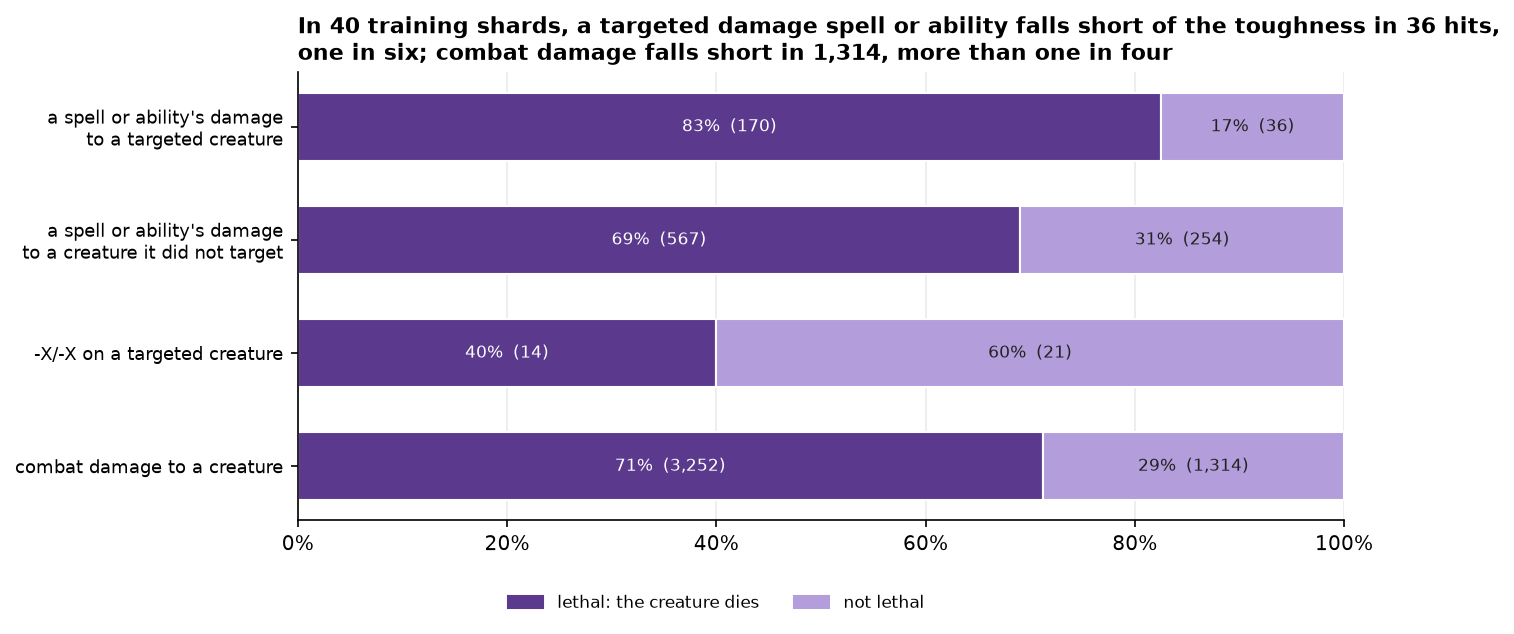
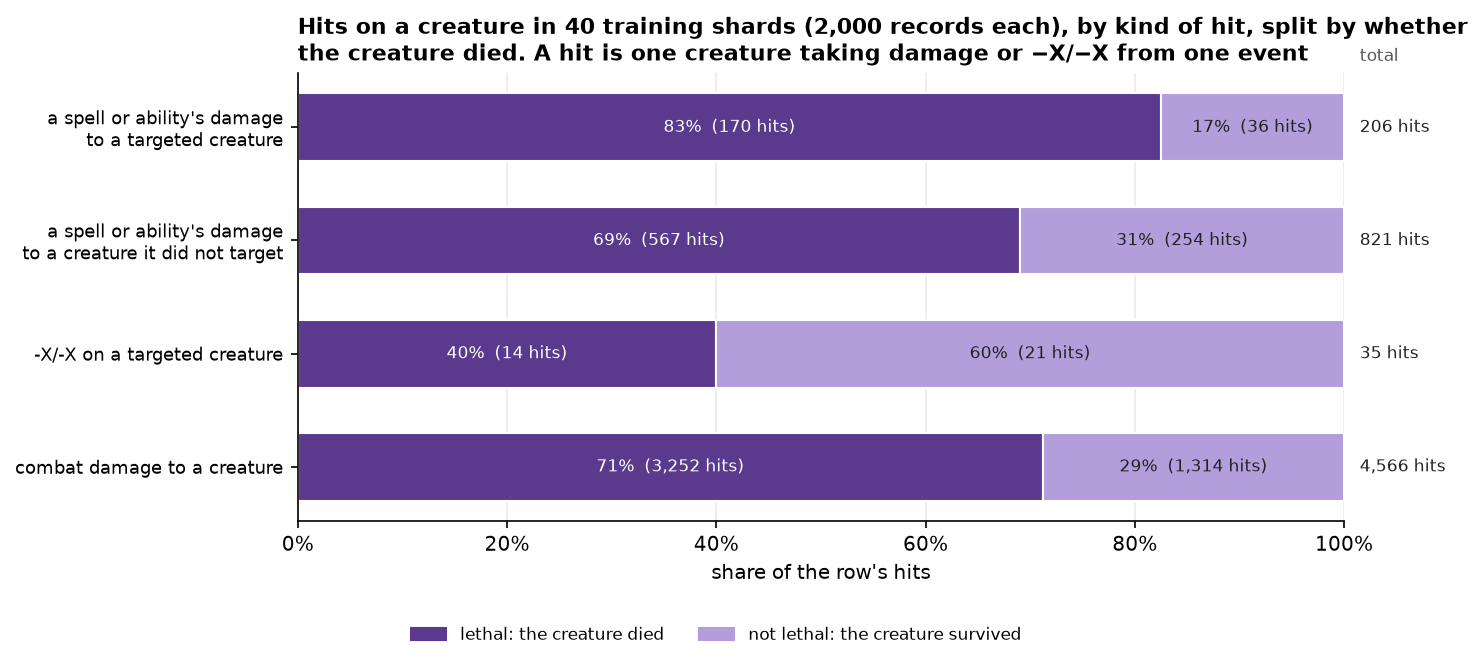
docs(effects-report): lethal-hits chart names what it counts; chart titles describe data
The skill gains the rule: a chart title states the population, measure and
split, never the conclusion, and every drawn number says what it counts.

Changed region(s): [[0.0, 0.03, 0.9933, 0.8691], [0.2794, 0.929, 0.6829, 0.989], [0.4345, 0.1798, 0.5277, 0.2098]]

diff --git a/scripts/effect_gen2_report/make_charts.py b/scripts/effect_gen2_report/make_charts.py
@@ -3037,21 +3037,25 @@ def lethal_hits() -> None:
         share = r.lethal / n
         ax.barh(y, share, height=0.6, color=lethal, edgecolor="white", lw=1)
         ax.barh(y, 1 - share, left=share, height=0.6, color=short_c, edgecolor="white", lw=1)
-        ax.text(share / 2, y, f"{share:.0%}  ({r.lethal:,})", ha="center", va="center",
+        ax.text(share / 2, y, f"{share:.0%}  ({r.lethal:,} hits)", ha="center", va="center",
                 fontsize=8.4, color="white")
-        ax.text(share + (1 - share) / 2, y, f"{1 - share:.0%}  ({r.not_lethal:,})",
+        ax.text(share + (1 - share) / 2, y, f"{1 - share:.0%}  ({r.not_lethal:,} hits)",
                 ha="center", va="center", fontsize=8.4, color=INK)
+        ax.text(1.015, y, f"{n:,} hits", ha="left", va="center", fontsize=8.4, color=INK)
+    ax.text(1.015, len(t) - 0.45, "total", ha="left", va="bottom", fontsize=8.4,
+            color=INK_SOFT)
     ax.set_yticks(range(len(t)), [labels.get(w, w) for w in t.what][::-1], fontsize=8.6)
     ax.set_xlim(0, 1)
     ax.xaxis.set_major_formatter(matplotlib.ticker.PercentFormatter(1.0))
+    ax.set_xlabel("share of the row's hits")
     ax.grid(axis="y", visible=False)
-    ax.legend(handles=[Patch(color=lethal, label="lethal: the creature dies"),
-                       Patch(color=short_c, label="not lethal")], loc="upper center",
-              bbox_to_anchor=(0.4, -0.13), ncol=2, fontsize=8.4)
+    ax.legend(handles=[Patch(color=lethal, label="lethal: the creature died"),
+                       Patch(color=short_c, label="not lethal: the creature survived")],
+              loc="upper center", bbox_to_anchor=(0.4, -0.2), ncol=2, fontsize=8.4)
     ax.set_axisbelow(True)
-    ax.set_title("In 40 training shards, a targeted damage spell or ability falls short of the "
-                 "toughness in 36 hits,\none in six; combat damage falls short in 1,314, more "
-                 "than one in four", fontsize=10.5)
+    ax.set_title("Hits on a creature in 40 training shards (2,000 records each), by kind of "
+                 "hit, split by whether\nthe creature died. A hit is one creature taking damage "
+                 "or −X/−X from one event", fontsize=10.5)
     save(fig, "lethal-hits")
 
 

diff --git a/.claude/skills/feature-workflow/SKILL.md b/.claude/skills/feature-workflow/SKILL.md
@@ -50,6 +50,7 @@ Discursive does not mean dense. These docs get re-read months later by someone w
 - **Drop the rhetorical scaffolding.** Em-dash asides, "the exception is…", "the same split", callbacks to a previous paragraph's phrasing — these read as style and cost the reader a lookup. Cut them and restate the thing.
 - **Name the mechanism; don't gesture at it with a figure of speech.** "A single game turns on the shuffle as much as on the decks, and a race to four averages most of that out" makes the reader decode two metaphors and reassemble three steps. "Which deck wins a single game depends heavily on what each player happens to draw. A match only ends when one deck has won four games, so most of that luck averages out" says the same thing and asks nothing. A sentence that sounds well-turned is the warning sign: check whether it is carrying an image in place of the mechanism.
 - **Concrete game imagery is welcome when it states the mechanism.** The rule above bans images that stand in place of a mechanism, not vividness. "Winners cast their Giant Growths, and losers die with them in hand" *is* the contribution channel, stated in the game's own terms, and a named example card ("a Wrath of God in a decklist marks a well-built deck") is often the cheapest way to make a card class concrete. The test: delete the image and check whether a mechanism sentence is now missing — if yes, the image was carrying it and may stay. A closing image may compress an argument the paragraphs above have already made in full ("a creature is good because of the company it keeps, a trick because of when it appears"); it must never substitute for one.
+- **A chart's title says what data it shows, not what it concludes.** Name the population, the measure and the split: "Hits on a creature in 40 training shards, by kind of hit, split by whether the creature died", not "A targeted spell rarely falls short". The conclusion belongs in the paragraph that leads to the chart, where the reader meets it first. Every number drawn on the chart says what it counts (hits, records, games, checkpoints) in the title, the axis label, the legend or beside the number itself; a bare count in brackets next to a percentage leaves the reader guessing.
 - **Don't sprinkle emphasis.** Bold and italics are not for words that feel important. Bolding *forced* and *late* in a sentence whose whole subject is those two properties adds nothing, and scattered markup teaches the reader to ignore it. Reserve emphasis for a contrast the sentence genuinely turns on, a few times per document at most; if a point needs weight, give it its own sentence instead of bolding a word.
 
 Plain is not casual. Sentences get short because each carries one step, not because the register drops. Keep the vocabulary technical and the tone level: cut conversational filler ("here's the thing", "it turns out", "its reasoning went like this"), don't narrate the writing as it happens, and don't slip into first-person cheerleading ("drafting better is what we want"). The target is a reader who never has to re-read a sentence, not one who is being talked to.

diff --git a/experiments/2026-09-18-effect-model-gen2-improvements-design.md b/experiments/2026-09-18-effect-model-gen2-improvements-design.md
@@ -573,7 +573,7 @@ The corpus holds few targeted damage hits that fall short of the creature's toug
 
 ![Stacked bars of lethal and not-lethal hits for four kinds of damage to a creature in 40 training shards](2026-09-18-effect-model-gen2/charts/lethal-hits.png)
 
-*Each bar splits one kind of damage to a creature into the hits that killed it and the hits that fell short of its toughness, as shares of the bar with the counts in brackets. Data: `lethal_hits_in_corpus.csv`.*
+*A hit is one creature taking damage or −X/−X from one event in a training record. Each bar splits one kind of hit into the hits that killed the creature and the hits that fell short of its toughness, as shares of the bar, with the number of hits in brackets and each row's total at its right. Data: `lethal_hits_in_corpus.csv`.*
 
 The fix is training copies labelled by the rule. A record qualifies when its acting ability deals one stated amount of damage, or -X/-X, and nothing in its chain can change whether the creature dies. Each copy redraws the amount and the hit creature's toughness from 1 to 8 and labels the death by rule 704.5f-g, so about half the copies are lethal. About one training record in four hundred qualifies, and `--lethality-copies 8` makes the copies about 2% of the records an epoch trains on.
 
